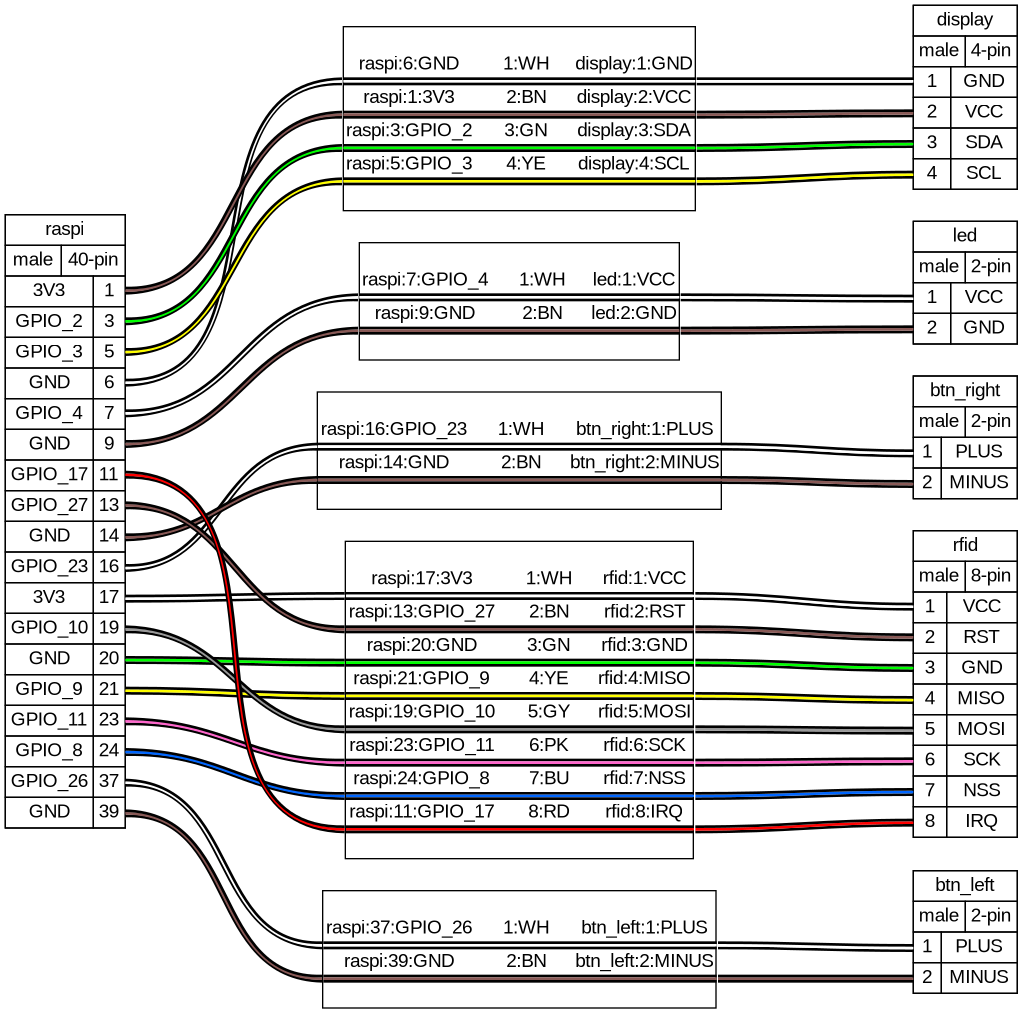
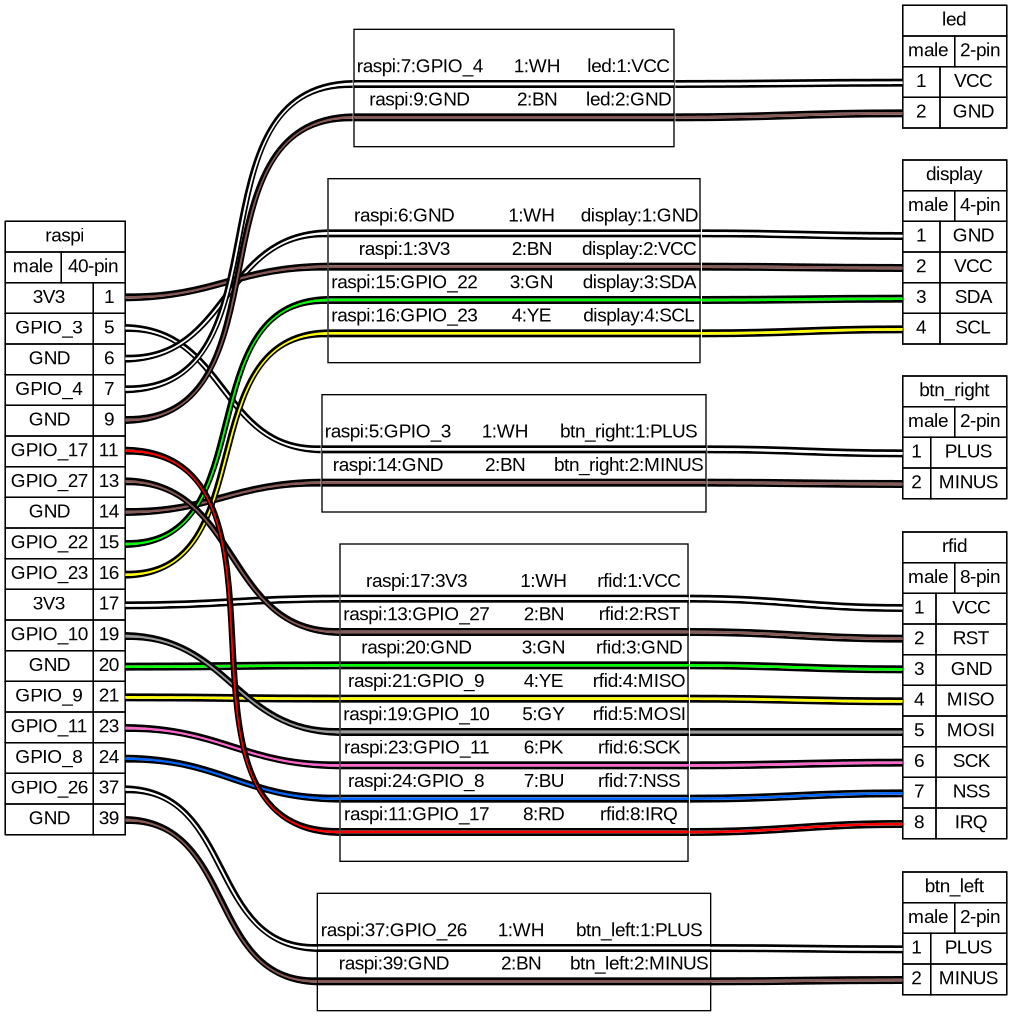
implement power-on from right button
This feature uses the wake-up mechanism from the Raspberry Pi
firmware. The firmware reboots into a "halt" state when the
boot partition ID indicated in the watchdog RSTS register is
set to 63. It can be woken up by a negative edge on GPIO3.
In order for this to be triggered by one of our buttons, we
change the pinout to connect the button to GPIO3 and connect
the display to I2C6 (it used to be on I2C1 which can no longer
be used).

Changed region(s): [[0.0, 0.0, 1.0, 1.0]]

diff --git a/br-external/package/pp3-core/ui.c b/br-external/package/pp3-core/ui.c
@@ -16,7 +16,7 @@
 
 #define GPIO_DEVICE_NAME "/dev/gpiochip0"
 #define GPIO_DEVICE_LINE_BTN_LEFT 26
-#define GPIO_DEVICE_LINE_BTN_RIGHT 23
+#define GPIO_DEVICE_LINE_BTN_RIGHT 3
 #define DEBOUNCE_PERIOD_MS 200
 
 #define GPIO_DEVICE_LINE_LED 4
